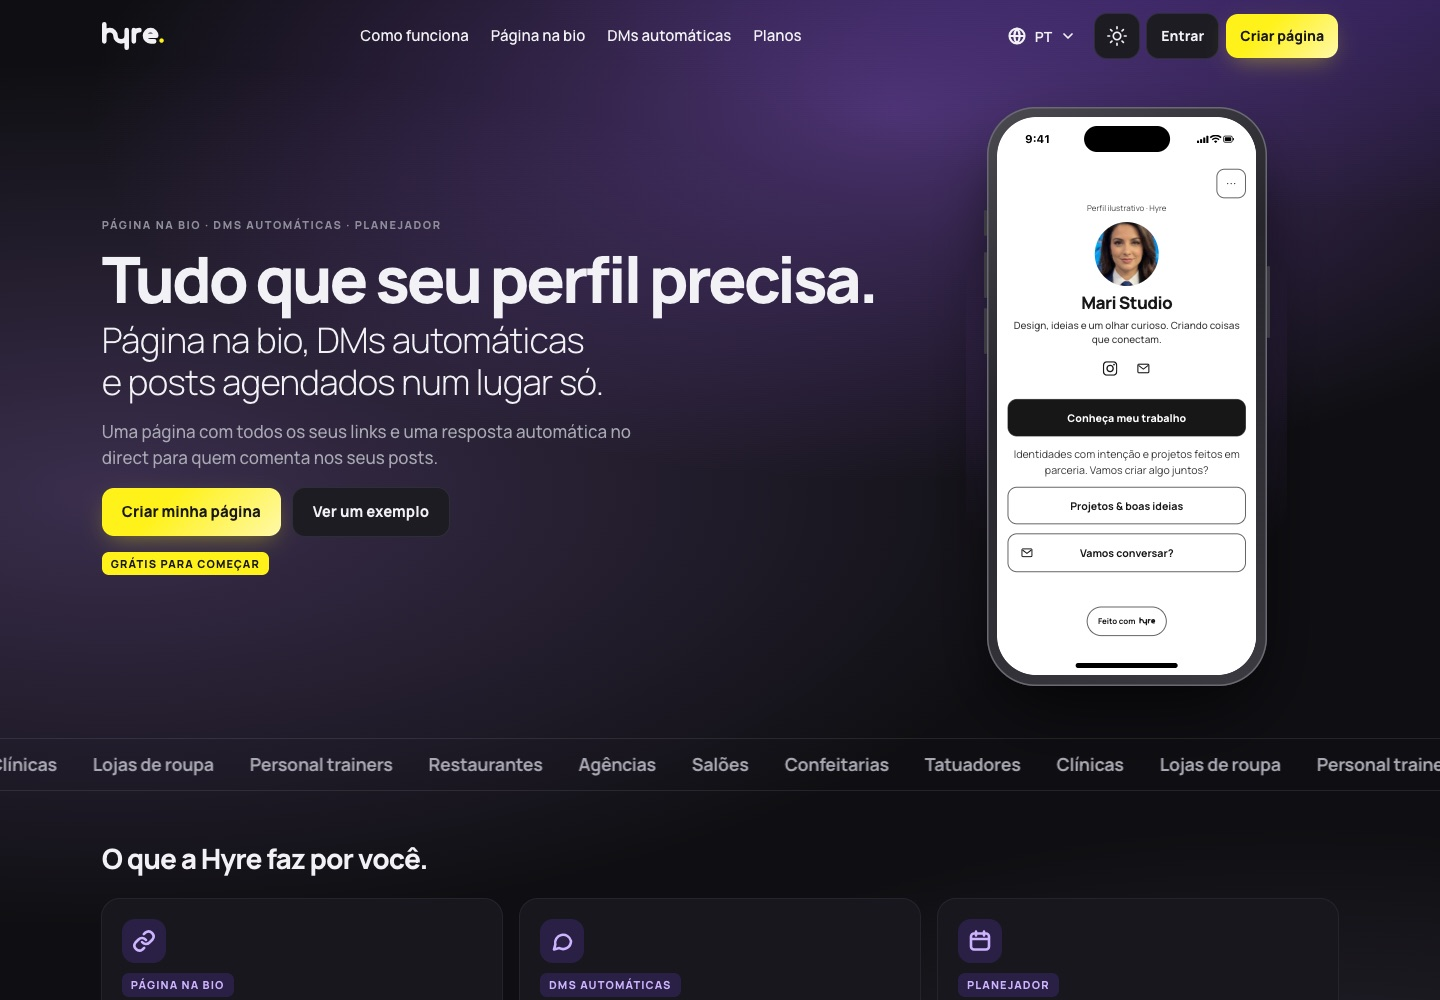
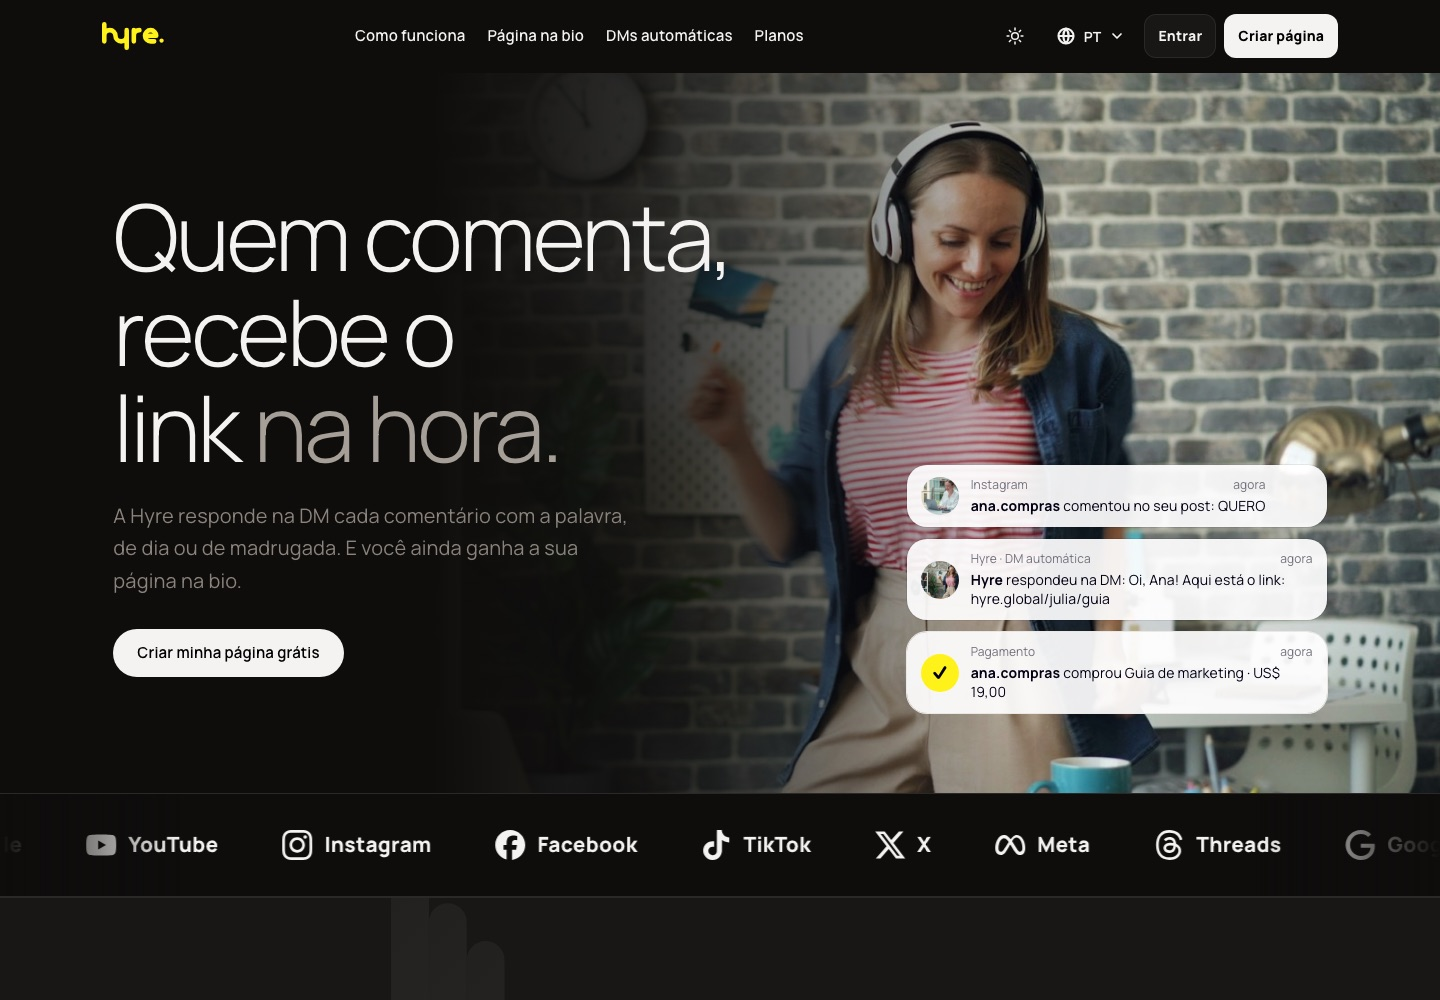
Hyre com o layout novo: capa, planos, exemplo e DM automática

diff --git a/lib/cases/hyre.ts b/lib/cases/hyre.ts
@@ -17,7 +17,7 @@ export const hyre: CaseStudy = {
     src: "/images/cases/hyre/home.jpg",
     width: 1440,
     height: 1000,
-    alt: "Página inicial da Hyre em fundo escuro com o título Tudo que seu perfil precisa, os botões Criar minha página e Ver um exemplo e um perfil ilustrativo em moldura de celular.",
+    alt: "Página inicial da Hyre com o título Quem comenta, recebe o link na hora, o botão Criar minha página grátis e a foto de uma mulher com fones de ouvido ao lado de três avisos: comentário no Instagram, resposta automática na DM e pagamento confirmado.",
     caption: "Página inicial em hyre.global, novembro de 2026",
   },
   gallery: [
@@ -25,15 +25,22 @@ export const hyre: CaseStudy = {
       src: "/images/cases/hyre/planos.jpg",
       width: 1440,
       height: 1000,
-      alt: "Página de planos com os cartões Gratuito (US$ 0), Pro (US$ 4,99 por mês, com 30 dias grátis) e Premium (US$ 9,99 por mês), com páginas, DMs automáticas, métricas e equipe de cada plano.",
+      alt: "Página de planos com o preço de lançamento de 1/4 do valor: Gratuito (US$ 0), Pro (US$ 4,99 por mês, de US$ 19,90) e Premium (US$ 9,99 por mês, de US$ 39,90), com páginas, DMs automáticas, métricas e equipe de cada plano.",
       caption: "Planos em hyre.global, novembro de 2026",
     },
     {
       src: "/images/cases/hyre/exemplo.jpg",
       width: 1440,
       height: 1000,
-      alt: "Página na bio de exemplo, de um perfil ilustrativo, com foto, descrição, ícones de redes e três botões de link.",
+      alt: "Seção Seu cartão de visitas nas redes, com a página na bio de um perfil ilustrativo em moldura de celular e a escolha de outros perfis de exemplo embaixo.",
       caption: "Página na bio de exemplo. Perfil ilustrativo.",
+    },
+    {
+      src: "/images/cases/hyre/dm.jpg",
+      width: 1440,
+      height: 1000,
+      alt: "Seção A DM sai na hora, com o link certo: celular com a conversa em que a pessoa comenta QUERO o guia e recebe o link na hora pela Hyre.",
+      caption: "DM automática em hyre.global, novembro de 2026",
     },
   ],
 

diff --git a/app/page.tsx b/app/page.tsx
@@ -36,7 +36,7 @@ export default function Home() {
       </div>
       <Link href="/projetos/hyre/" className="v2-hero-shot" aria-label="Abrir o estudo de caso da Hyre">
         <div className="browser-strip" aria-hidden="true"><span/><span/><span/></div>
-        <img src={asset("/images/cases/hyre/home.jpg")} alt="Página inicial da Hyre: página na bio, DMs automáticas e planejador de posts" width="1440" height="1000"/>
+        <img src={asset("/images/cases/hyre/home.jpg")} alt="Página inicial da Hyre: quem comenta recebe o link na hora pela DM" width="1440" height="1000"/>
       </Link>
     </section>
 
